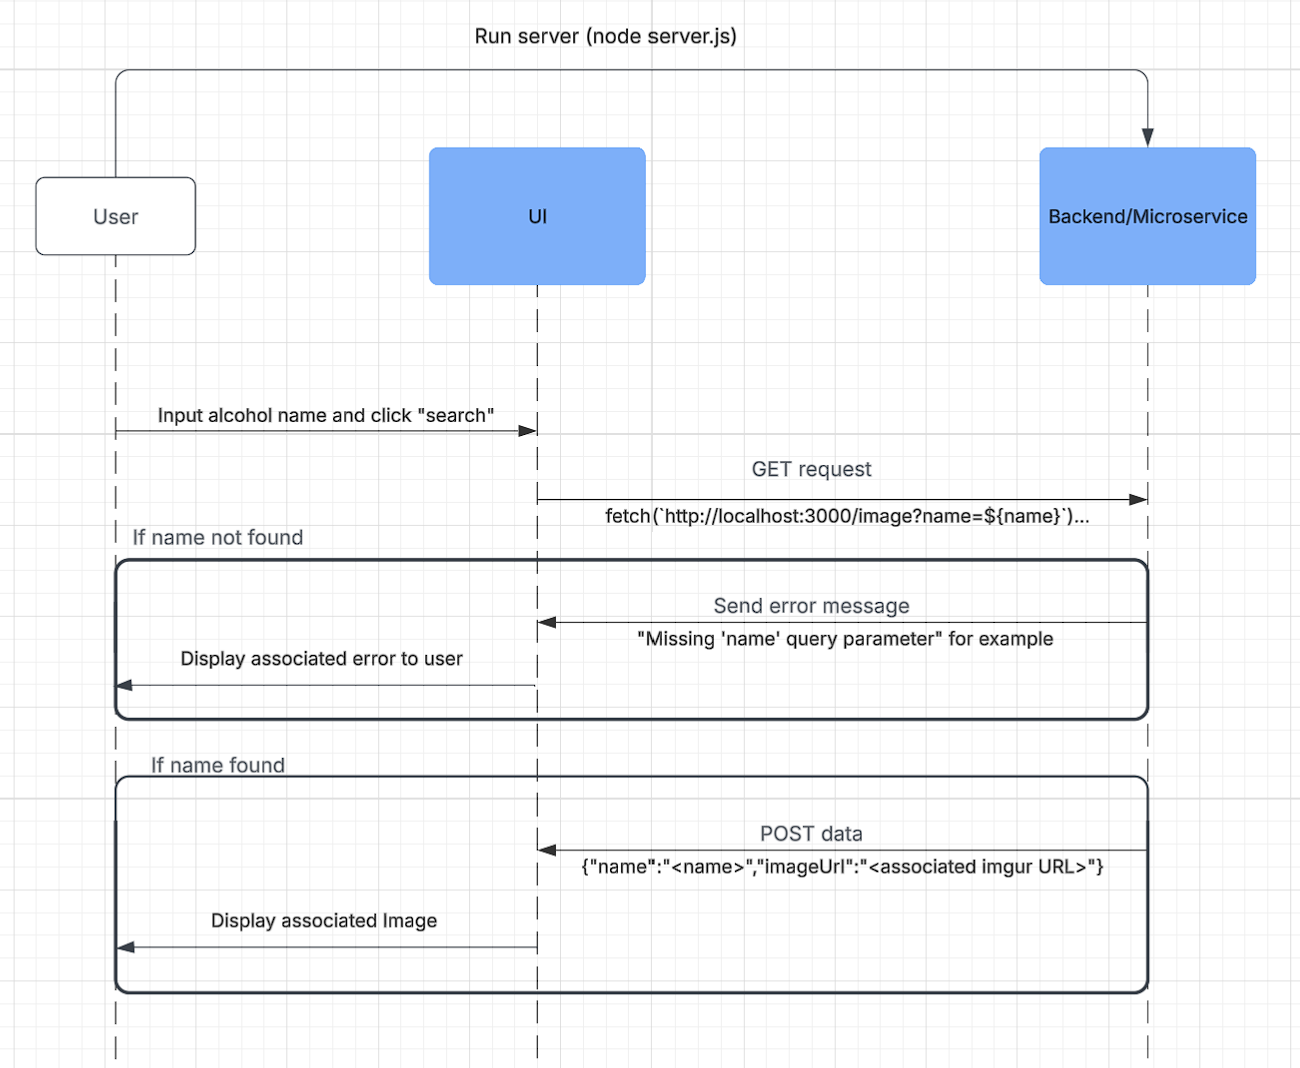
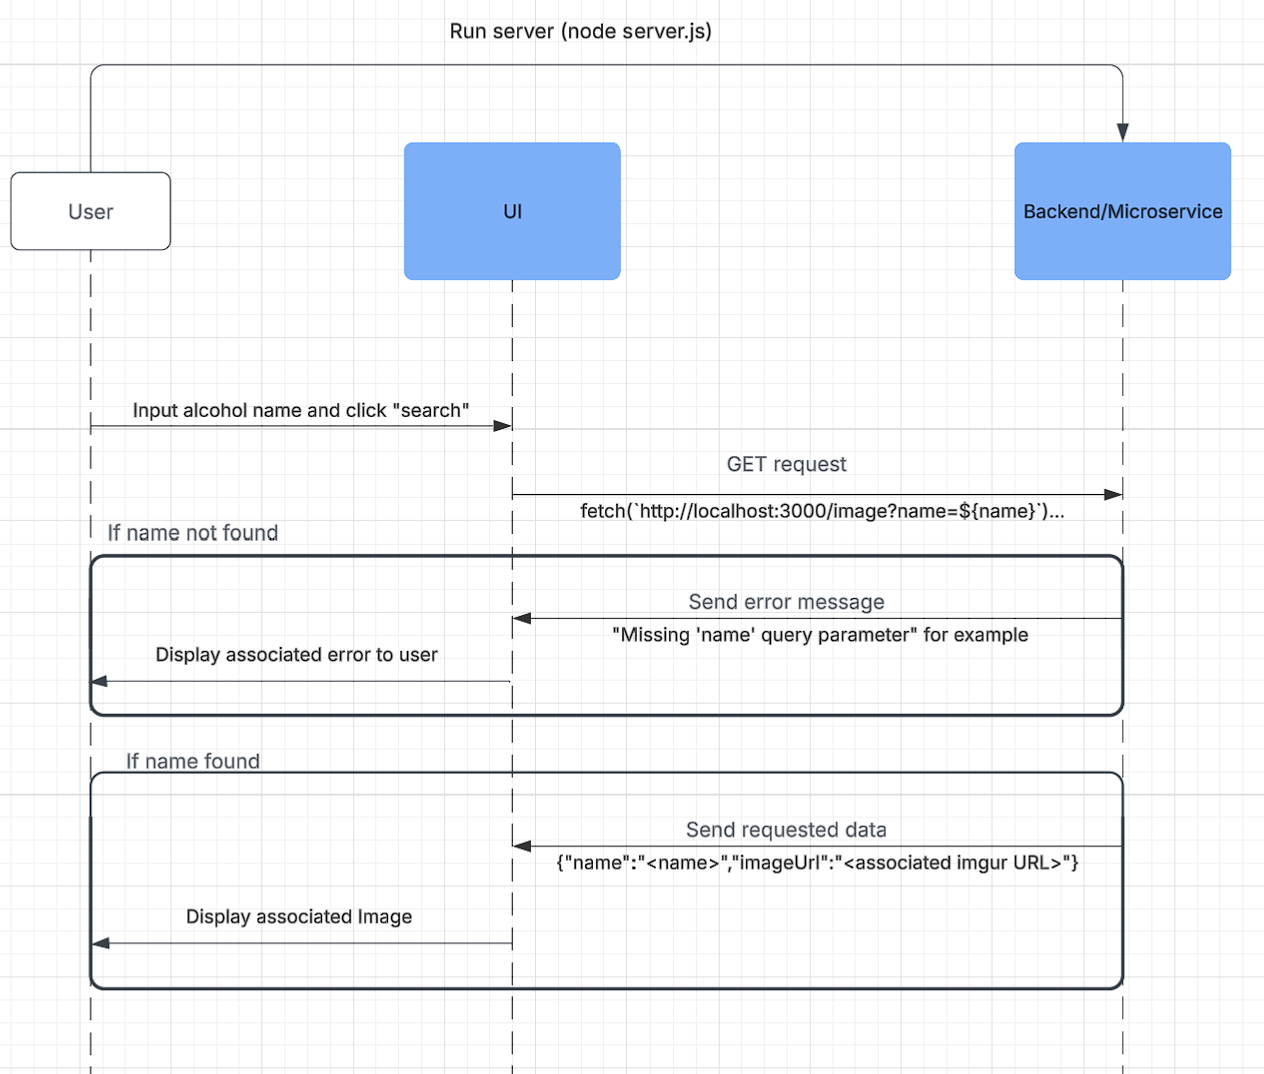
Update UML to be more accurate

diff --git a/README.md b/README.md
@@ -56,4 +56,4 @@ For example, if name = smirnoff, the output would be a JSON object that looks li
 {"name":"vodka","imageUrl":"https://i.imgur.com/gVgm7gt.jpg"}
 
 C:
-![UML for the program I made](image.png)
+![UML for project](image.png)
